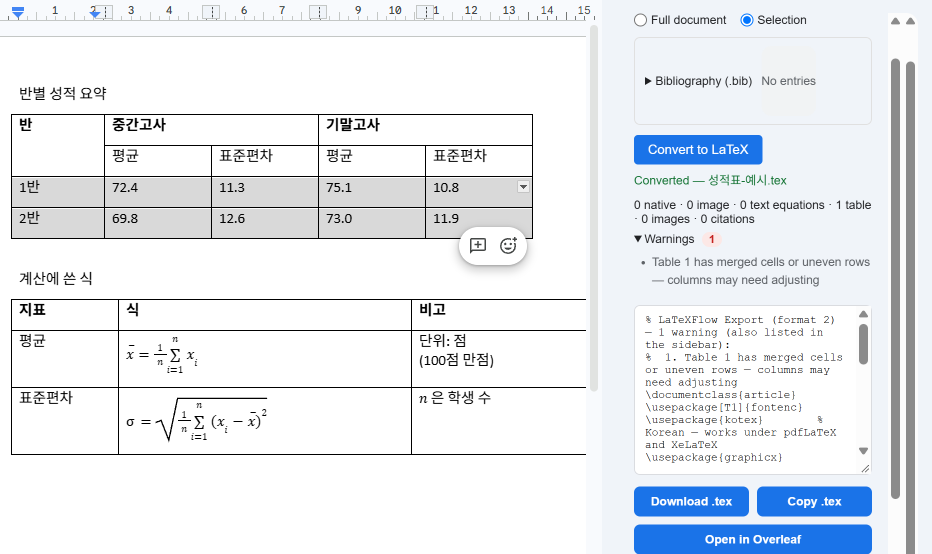
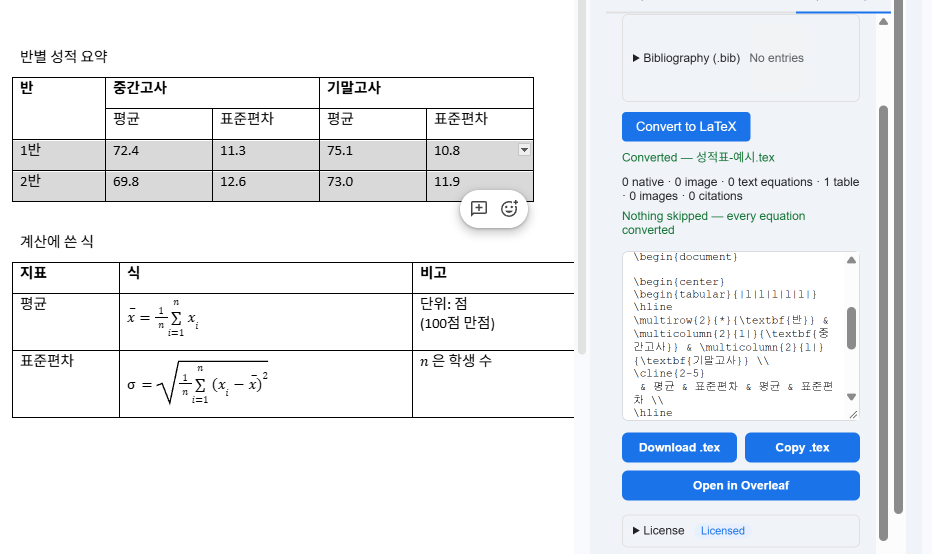
img(10-31): table-03-sidebar re-shot on live v17 (Selection export, no warning, \multirow + \cline{2-5} in the preview) and table-01-exported re-made from the v17 Full document export (pdfLaTeX, 0 errors); R184 placeholder comments removed (R184 step 2)
Claude-Session: https://claude.ai/code/session_01WtnKZasBhqLtdkMYmNon2T

diff --git a/_posts/2026-10-31-google-docs-table-to-latex-tabular.md b/_posts/2026-10-31-google-docs-table-to-latex-tabular.md
@@ -27,7 +27,6 @@ LaTeX 에서 표를 손으로 짜 본 분은 압니다. 칸마다 `&`, 줄마다
 
 문서 전체를 내보내려면 **Full document** 를 그대로 두면 됩니다. 결과는 **Copy .tex** 로 복사해 이미 쓰고 있는 `.tex` 에 붙여넣거나, **Download .tex** · **Open in Overleaf** 로 받습니다.
 
-<!-- R184: table-03-sidebar.png is re-shot on live v17 (web, step 2); alt describes the new shot. -->
 ![첫 번째 표의 아래 두 줄을 선택한 채 Selection 으로 Convert to LaTeX 를 누른 사이드바: Converted — 성적표-예시.tex, 결과 줄 0 native · 0 image · 0 text equations · 1 table, 경고 없음, \multirow 가 든 .tex 미리보기, Download .tex · Copy .tex · Open in Overleaf 버튼](/assets/img/posts/2026-10-31/table-03-sidebar.png){: width="720" }
 
 ## 3. 나온 LaTeX
@@ -74,7 +73,6 @@ LaTeX 에서 표를 손으로 짜 본 분은 압니다. 칸마다 `&`, 줄마다
 
 받은 그대로 pdfLaTeX 로 컴파일하면 이렇습니다.
 
-<!-- R184: table-01-exported.png must be re-made from the v17 export (compile + crop, same size); alt describes the new image. -->
 ![내보낸 그대로 컴파일한 PDF: 첫 번째 표는 왼쪽 정렬이고, 반이 두 줄에 걸쳐 있고 그 오른쪽에 평균·표준편차가 제자리에 옴. 중간고사·기말고사는 두 칸에 걸침. 두 번째 표는 칸 안에 작은 크기의 평균과 표준편차 식](/assets/img/posts/2026-10-31/table-01-exported.png){: width="480" }
 
 ## 4. 몇 줄로 다듬기
